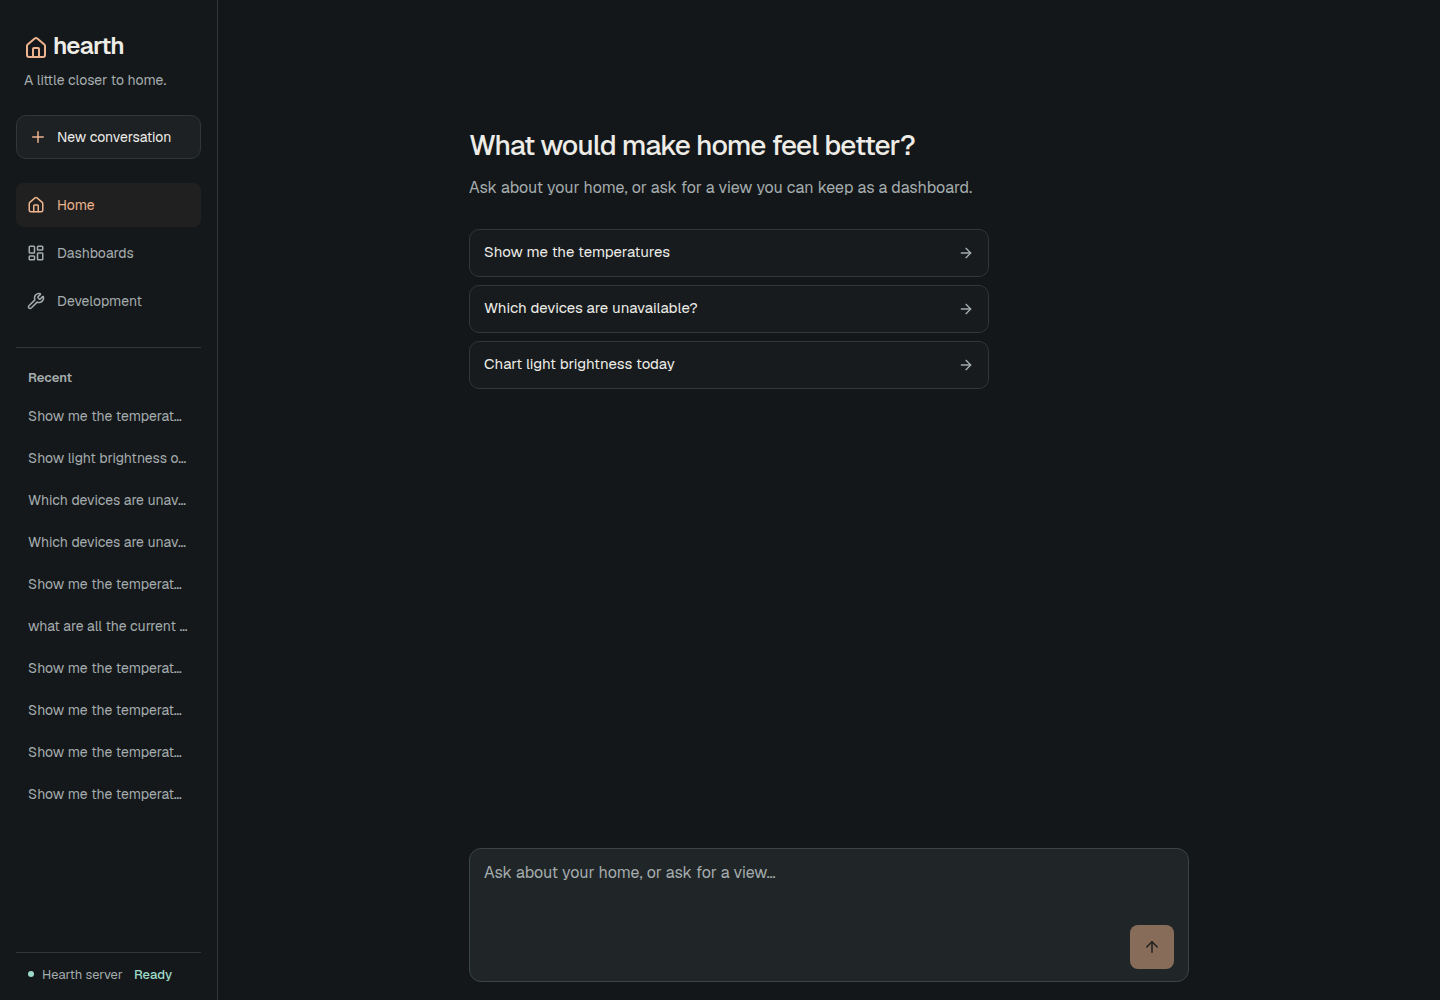
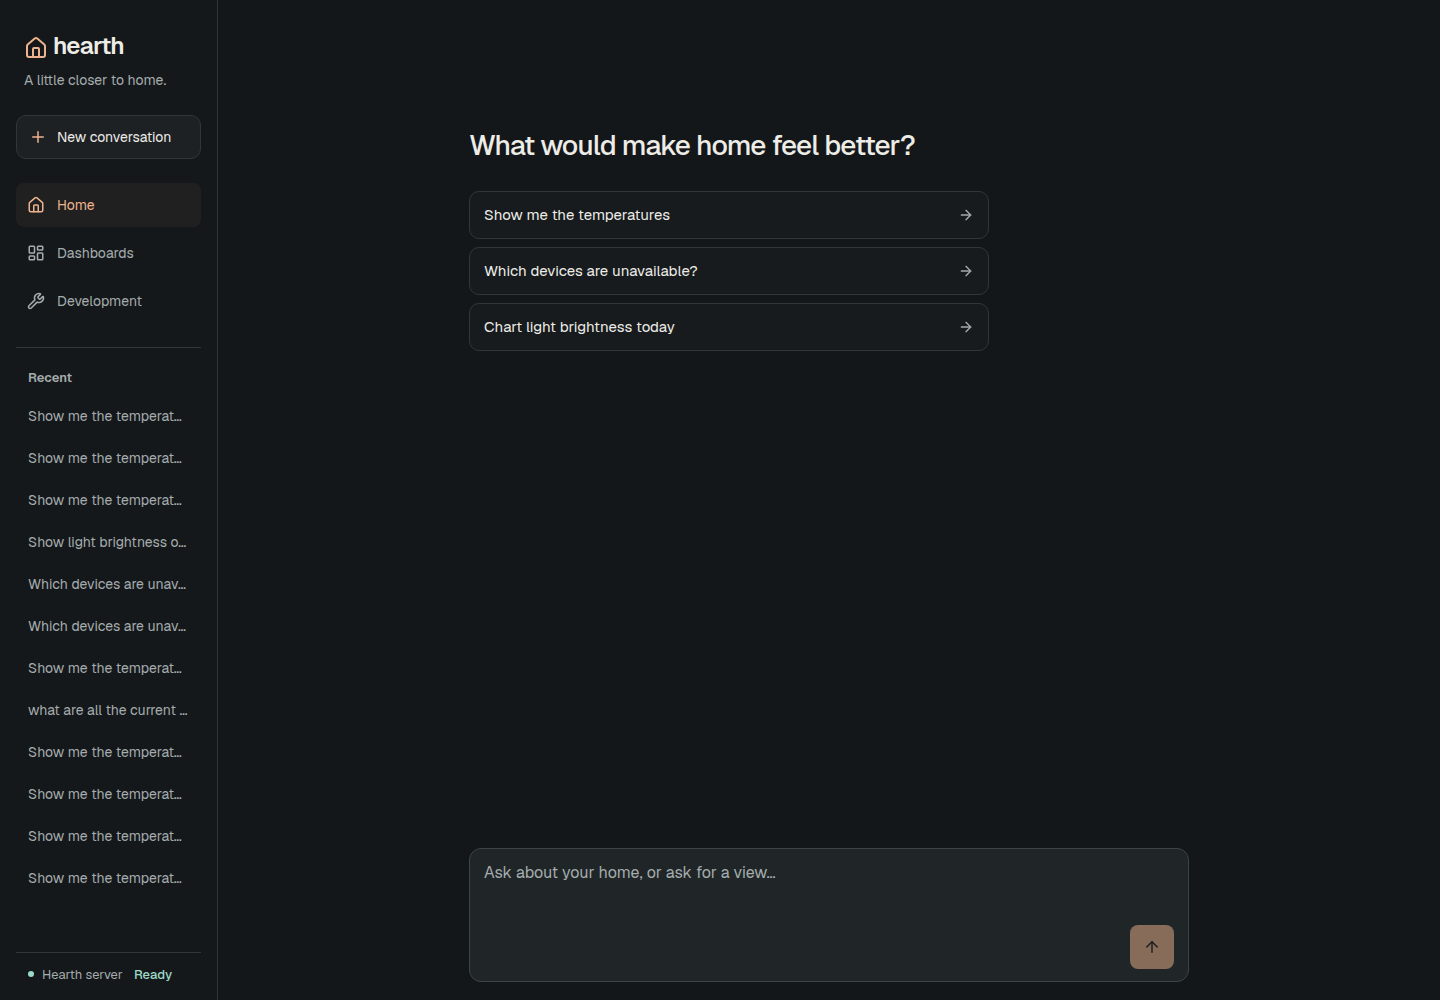
fix(web): drop empty-state subtitle that repeats the composer hint

diff --git a/web/src/pages/AgentPage.tsx b/web/src/pages/AgentPage.tsx
@@ -188,7 +188,7 @@ export default function AgentPage() {
     <div className={`workspace-body${draft ? " has-canvas" : ""}`}><AssistantRuntimeProvider runtime={runtime}><ThreadPrimitive.Root className="conversation" role="region" aria-label="Conversation with Hearth"><ThreadPrimitive.ViewportProvider>
       <div className="message-area"><ThreadPrimitive.Viewport className="messages" role="log" aria-live="polite" scrollToBottomOnInitialize scrollToBottomOnThreadSwitch>
         {loading && <p role="status">Loading conversation…</p>}
-        {!loading && allItems.length === 0 && <div className="empty-chat"><h2>What would make home feel better?</h2><p>Ask about your home, or ask for a view you can keep as a dashboard.</p>
+        {!loading && allItems.length === 0 && <div className="empty-chat"><h2>What would make home feel better?</h2>
           <ul className="starters" aria-label="Suggested questions">{STARTERS.map(starter => <li key={starter.label}><ThreadPrimitive.Suggestion prompt={starter.prompt} send disabled={sendBlocked}>{starter.label}<ArrowRightIcon aria-hidden="true" /></ThreadPrimitive.Suggestion></li>)}</ul></div>}
         <ConversationMessages select={select} openId={draft?.origin_artifact_id ?? null} />
         {busy && <p className="working" role="status">Looking through your home…</p>}

diff --git a/web/src/index.css b/web/src/index.css
@@ -151,8 +151,7 @@
 .artifact-preview>button svg { width:16px; height:16px; flex-shrink:0; }
 .artifact-icon { display:inline-grid; place-items:center; width:36px; height:36px; background:#9dd9c71a; color:var(--mint); border-radius:9px; font-size:20px; }.artifact-icon svg { width:20px; height:20px; }
 .empty-chat { padding:clamp(36px,12vh,140px) 0 24px; max-width:520px; }
-.empty-chat h2 { font-size:28px; line-height:1.25; font-weight:500; letter-spacing:-.03em; text-wrap:balance; margin:0 0 12px; }
-.empty-chat p { color:var(--quiet); font-size:16px; line-height:1.6; text-wrap:pretty; }
+.empty-chat h2 { font-size:28px; line-height:1.25; font-weight:500; letter-spacing:-.03em; text-wrap:balance; margin:0; }
 .working { color:var(--quiet); font-size:14px; line-height:1.6; }
 .starters { list-style:none; display:grid; gap:8px; margin-top:28px; }
 .starters button { display:flex; justify-content:space-between; align-items:center; gap:12px; width:100%; min-height:48px; padding:10px 14px; text-align:left; border:1px solid var(--edge); border-radius:10px; background:#171b1d; font-size:15px; }

diff --git a/docs/design/home-layout/assistant-ui/README.md b/docs/design/home-layout/assistant-ui/README.md
@@ -22,6 +22,9 @@ latest reply, copies it, expands a multiline draft, starts a new conversation,
 opens a retained view and expands its native tool group. No frames were
 reconstructed or redacted.
 
+The empty Home capture was refreshed after removing the subtitle that repeated
+the composer placeholder; the recording predates that change.
+
 ## Observed outcomes
 
 - The live starter produced conversation
